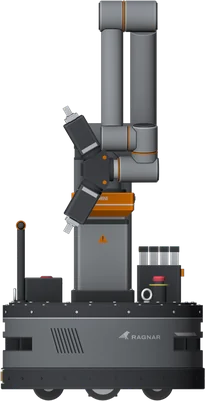
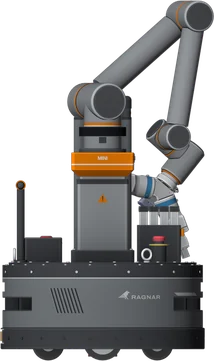
The family shares one face: R2 and Mini get the orange visor light on a ring at the arm base, all three lights follow the pointer, Mini shown reaching into its drive tray, preview image updated

diff --git a/index.html b/index.html
@@ -28,7 +28,7 @@
 <link rel="preload" href="assets/fonts/archivo_wide.woff2" as="font" type="font/woff2" crossorigin>
 <link rel="preload" href="assets/fonts/geist.woff2" as="font" type="font/woff2" crossorigin>
 <link rel="preload" href="assets/img/r1_loop_poster.webp" as="image" type="image/webp" fetchpriority="high">
-<link rel="stylesheet" href="assets/styles.css?v=r10">
+<link rel="stylesheet" href="assets/styles.css?v=r11">
 <script src="assets/site.js?v=r7" defer></script>
 </head>
 <body>
@@ -142,17 +142,17 @@
       </div>
       <div class="c14 fam">
 <div class="fam-fig">
-<svg class="dwg fam-back" viewBox="0 -2250 5664 2330" aria-hidden="true"><path d="M0 0H5664"/><path d="M400 0V-2133.6"/><path d="M348 0H400"/><path d="M374 -152.4H400"/><path d="M348 -304.8H400"/><text class="rl" x="330" y="-304.8">1</text><path d="M374 -457.2H400"/><path d="M348 -609.6H400"/><text class="rl" x="330" y="-609.6">2</text><path d="M374 -762H400"/><path d="M348 -914.4H400"/><text class="rl" x="330" y="-914.4">3</text><path d="M374 -1066.8H400"/><path d="M348 -1219.2H400"/><text class="rl" x="330" y="-1219.2">4</text><path d="M374 -1371.6H400"/><path d="M348 -1524H400"/><text class="rl" x="330" y="-1524">5</text><path d="M374 -1676.4H400"/><path d="M348 -1828.8H400"/><text class="rl" x="330" y="-1828.8">6</text><path d="M374 -1981.2H400"/><path d="M348 -2133.6H400"/><text class="rl" x="330" y="-2133.6">7 ft</text><path class="person" d="M782.0 -1753.0C799.3 -1753.0 821.0 -1755.2 834.0 -1738.0C847.0 -1720.8 857.0 -1676.3 860.0 -1650.0C863.0 -1623.7 856.7 -1600.8 852.0 -1580.0C847.3 -1559.2 835.0 -1542.0 832.0 -1525.0C829.0 -1508.0 822.3 -1489.2 834.0 -1478.0C845.7 -1466.8 876.5 -1464.3 902.0 -1458.0C927.5 -1451.7 967.7 -1450.5 987.0 -1440.0C1006.3 -1429.5 1010.8 -1426.7 1018.0 -1395.0C1025.2 -1363.3 1027.3 -1300.8 1030.0 -1250.0C1032.7 -1199.2 1034.2 -1148.3 1034.0 -1090.0C1033.8 -1031.7 1029.3 -950.0 1029.0 -900.0C1028.7 -850.0 1033.8 -821.3 1032.0 -790.0C1030.2 -758.7 1025.7 -726.3 1018.0 -712.0C1010.3 -697.7 993.7 -696.0 986.0 -704.0C978.3 -712.0 975.3 -727.3 972.0 -760.0C968.7 -792.7 968.3 -845.0 966.0 -900.0C963.7 -955.0 960.7 -1031.7 958.0 -1090.0C955.3 -1148.3 952.0 -1213.0 950.0 -1250.0C948.0 -1287.0 947.3 -1315.3 946.0 -1312.0C944.7 -1308.7 945.0 -1267.8 942.0 -1230.0C939.0 -1192.2 927.0 -1130.0 928.0 -1085.0C929.0 -1040.0 942.7 -990.8 948.0 -960.0C953.3 -929.2 959.7 -943.3 960.0 -900.0C960.3 -856.7 957.3 -766.7 950.0 -700.0C942.7 -633.3 922.0 -561.7 916.0 -500.0C910.0 -438.3 920.3 -396.7 914.0 -330.0C907.7 -263.3 881.0 -150.0 878.0 -100.0C875.0 -50.0 893.3 -46.7 896.0 -30.0C898.7 -13.3 908.0 -5.0 894.0 0.0C880.0 5.0 825.3 15.0 812.0 0.0C798.7 -15.0 815.0 -35.0 814.0 -90.0C813.0 -145.0 807.7 -261.7 806.0 -330.0C804.3 -398.3 805.7 -428.3 804.0 -500.0C802.3 -571.7 799.7 -702.5 796.0 -760.0C792.3 -817.5 786.7 -845.0 782.0 -845.0C777.3 -845.0 771.7 -817.5 768.0 -760.0C764.3 -702.5 761.7 -571.7 760.0 -500.0C758.3 -428.3 759.7 -398.3 758.0 -330.0C756.3 -261.7 751.0 -145.0 750.0 -90.0C749.0 -35.0 765.3 -15.0 752.0 0.0C738.7 15.0 684.0 5.0 670.0 0.0C656.0 -5.0 665.3 -13.3 668.0 -30.0C670.7 -46.7 689.0 -50.0 686.0 -100.0C683.0 -150.0 656.3 -263.3 650.0 -330.0C643.7 -396.7 654.0 -438.3 648.0 -500.0C642.0 -561.7 621.3 -633.3 614.0 -700.0C606.7 -766.7 603.7 -856.7 604.0 -900.0C604.3 -943.3 610.7 -929.2 616.0 -960.0C621.3 -990.8 635.0 -1040.0 636.0 -1085.0C637.0 -1130.0 625.0 -1192.2 622.0 -1230.0C619.0 -1267.8 619.3 -1308.7 618.0 -1312.0C616.7 -1315.3 616.0 -1287.0 614.0 -1250.0C612.0 -1213.0 608.7 -1148.3 606.0 -1090.0C603.3 -1031.7 600.3 -955.0 598.0 -900.0C595.7 -845.0 595.3 -792.7 592.0 -760.0C588.7 -727.3 585.7 -712.0 578.0 -704.0C570.3 -696.0 553.7 -697.7 546.0 -712.0C538.3 -726.3 533.8 -758.7 532.0 -790.0C530.2 -821.3 535.3 -850.0 535.0 -900.0C534.7 -950.0 530.2 -1031.7 530.0 -1090.0C529.8 -1148.3 531.3 -1199.2 534.0 -1250.0C536.7 -1300.8 538.8 -1363.3 546.0 -1395.0C553.2 -1426.7 557.7 -1429.5 577.0 -1440.0C596.3 -1450.5 636.5 -1451.7 662.0 -1458.0C687.5 -1464.3 718.3 -1466.8 730.0 -1478.0C741.7 -1489.2 735.0 -1508.0 732.0 -1525.0C729.0 -1542.0 716.7 -1559.2 712.0 -1580.0C707.3 -1600.8 701.0 -1623.7 704.0 -1650.0C707.0 -1676.3 717.0 -1720.8 730.0 -1738.0C743.0 -1755.2 764.7 -1753.0 782.0 -1753.0Z"/><text class="nm" x="1944" y="40">R1</text><text class="nm" x="3882" y="40">R2</text><text class="nm" x="5196" y="40">Mini</text></svg>
+<svg class="dwg fam-back" viewBox="0 -2250 5692 2330" aria-hidden="true"><path d="M0 0H5692"/><path d="M400 0V-2133.6"/><path d="M348 0H400"/><path d="M374 -152.4H400"/><path d="M348 -304.8H400"/><text class="rl" x="330" y="-304.8">1</text><path d="M374 -457.2H400"/><path d="M348 -609.6H400"/><text class="rl" x="330" y="-609.6">2</text><path d="M374 -762H400"/><path d="M348 -914.4H400"/><text class="rl" x="330" y="-914.4">3</text><path d="M374 -1066.8H400"/><path d="M348 -1219.2H400"/><text class="rl" x="330" y="-1219.2">4</text><path d="M374 -1371.6H400"/><path d="M348 -1524H400"/><text class="rl" x="330" y="-1524">5</text><path d="M374 -1676.4H400"/><path d="M348 -1828.8H400"/><text class="rl" x="330" y="-1828.8">6</text><path d="M374 -1981.2H400"/><path d="M348 -2133.6H400"/><text class="rl" x="330" y="-2133.6">7 ft</text><path class="person" d="M782.0 -1753.0C799.3 -1753.0 821.0 -1755.2 834.0 -1738.0C847.0 -1720.8 857.0 -1676.3 860.0 -1650.0C863.0 -1623.7 856.7 -1600.8 852.0 -1580.0C847.3 -1559.2 835.0 -1542.0 832.0 -1525.0C829.0 -1508.0 822.3 -1489.2 834.0 -1478.0C845.7 -1466.8 876.5 -1464.3 902.0 -1458.0C927.5 -1451.7 967.7 -1450.5 987.0 -1440.0C1006.3 -1429.5 1010.8 -1426.7 1018.0 -1395.0C1025.2 -1363.3 1027.3 -1300.8 1030.0 -1250.0C1032.7 -1199.2 1034.2 -1148.3 1034.0 -1090.0C1033.8 -1031.7 1029.3 -950.0 1029.0 -900.0C1028.7 -850.0 1033.8 -821.3 1032.0 -790.0C1030.2 -758.7 1025.7 -726.3 1018.0 -712.0C1010.3 -697.7 993.7 -696.0 986.0 -704.0C978.3 -712.0 975.3 -727.3 972.0 -760.0C968.7 -792.7 968.3 -845.0 966.0 -900.0C963.7 -955.0 960.7 -1031.7 958.0 -1090.0C955.3 -1148.3 952.0 -1213.0 950.0 -1250.0C948.0 -1287.0 947.3 -1315.3 946.0 -1312.0C944.7 -1308.7 945.0 -1267.8 942.0 -1230.0C939.0 -1192.2 927.0 -1130.0 928.0 -1085.0C929.0 -1040.0 942.7 -990.8 948.0 -960.0C953.3 -929.2 959.7 -943.3 960.0 -900.0C960.3 -856.7 957.3 -766.7 950.0 -700.0C942.7 -633.3 922.0 -561.7 916.0 -500.0C910.0 -438.3 920.3 -396.7 914.0 -330.0C907.7 -263.3 881.0 -150.0 878.0 -100.0C875.0 -50.0 893.3 -46.7 896.0 -30.0C898.7 -13.3 908.0 -5.0 894.0 0.0C880.0 5.0 825.3 15.0 812.0 0.0C798.7 -15.0 815.0 -35.0 814.0 -90.0C813.0 -145.0 807.7 -261.7 806.0 -330.0C804.3 -398.3 805.7 -428.3 804.0 -500.0C802.3 -571.7 799.7 -702.5 796.0 -760.0C792.3 -817.5 786.7 -845.0 782.0 -845.0C777.3 -845.0 771.7 -817.5 768.0 -760.0C764.3 -702.5 761.7 -571.7 760.0 -500.0C758.3 -428.3 759.7 -398.3 758.0 -330.0C756.3 -261.7 751.0 -145.0 750.0 -90.0C749.0 -35.0 765.3 -15.0 752.0 0.0C738.7 15.0 684.0 5.0 670.0 0.0C656.0 -5.0 665.3 -13.3 668.0 -30.0C670.7 -46.7 689.0 -50.0 686.0 -100.0C683.0 -150.0 656.3 -263.3 650.0 -330.0C643.7 -396.7 654.0 -438.3 648.0 -500.0C642.0 -561.7 621.3 -633.3 614.0 -700.0C606.7 -766.7 603.7 -856.7 604.0 -900.0C604.3 -943.3 610.7 -929.2 616.0 -960.0C621.3 -990.8 635.0 -1040.0 636.0 -1085.0C637.0 -1130.0 625.0 -1192.2 622.0 -1230.0C619.0 -1267.8 619.3 -1308.7 618.0 -1312.0C616.7 -1315.3 616.0 -1287.0 614.0 -1250.0C612.0 -1213.0 608.7 -1148.3 606.0 -1090.0C603.3 -1031.7 600.3 -955.0 598.0 -900.0C595.7 -845.0 595.3 -792.7 592.0 -760.0C588.7 -727.3 585.7 -712.0 578.0 -704.0C570.3 -696.0 553.7 -697.7 546.0 -712.0C538.3 -726.3 533.8 -758.7 532.0 -790.0C530.2 -821.3 535.3 -850.0 535.0 -900.0C534.7 -950.0 530.2 -1031.7 530.0 -1090.0C529.8 -1148.3 531.3 -1199.2 534.0 -1250.0C536.7 -1300.8 538.8 -1363.3 546.0 -1395.0C553.2 -1426.7 557.7 -1429.5 577.0 -1440.0C596.3 -1450.5 636.5 -1451.7 662.0 -1458.0C687.5 -1464.3 718.3 -1466.8 730.0 -1478.0C741.7 -1489.2 735.0 -1508.0 732.0 -1525.0C729.0 -1542.0 716.7 -1559.2 712.0 -1580.0C707.3 -1600.8 701.0 -1623.7 704.0 -1650.0C707.0 -1676.3 717.0 -1720.8 730.0 -1738.0C743.0 -1755.2 764.7 -1753.0 782.0 -1753.0Z"/><text class="nm" x="1944" y="40">R1</text><text class="nm" x="3882" y="40">R2</text><text class="nm" x="5210" y="40">Mini</text></svg>
 <img class="fam-bot fam-r1" src="assets/img/r1_side_1x.webp" srcset="assets/img/r1_side_1x.webp 493w, assets/img/r1_side_2x.webp 986w" sizes="(min-width: 900px) calc(min(1440px, 100vw - 48px) * 0.3), calc((100vw - 40px) * 0.3)" width="986" height="1249" alt="R1, the interior finishing robot, holding its paint roller beside its mast" loading="lazy" decoding="async">
 <img class="fam-bot fam-r2" src="assets/img/r2_side_1x.webp" srcset="assets/img/r2_side_1x.webp 368w, assets/img/r2_side_2x.webp 735w" sizes="(min-width: 900px) calc(min(1440px, 100vw - 48px) * 0.2), calc((100vw - 40px) * 0.2)" width="735" height="931" alt="R2, the machine tending robot, with its arm on a lift column and part cassettes on its deck" loading="lazy" decoding="async">
-<img class="fam-bot fam-mini" src="assets/img/mini_side_1x.webp" srcset="assets/img/mini_side_1x.webp 205w, assets/img/mini_side_2x.webp 410w" sizes="(min-width: 900px) calc(min(1440px, 100vw - 48px) * 0.1), calc((100vw - 40px) * 0.1)" width="410" height="802" alt="Mini, the round data center robot, with its arm folded above a short lift" loading="lazy" decoding="async">
-<svg class="dwg fam-front" viewBox="0 -2250 5664 2330" aria-hidden="true"><rect class="eye" x="2360.7" y="-1961.5" width="37.5" height="23" data-cx="2379.4" data-cy="-1950" data-hx="2330.4" data-range="98"/></svg>
+<img class="fam-bot fam-mini" src="assets/img/mini_side_1x.webp" srcset="assets/img/mini_side_1x.webp 214w, assets/img/mini_side_2x.webp 428w" sizes="(min-width: 900px) calc(min(1440px, 100vw - 48px) * 0.1), calc((100vw - 40px) * 0.1)" width="428" height="722" alt="Mini, the round data center robot, reaching into the drive tray on its deck" loading="lazy" decoding="async">
+<svg class="dwg fam-front" viewBox="0 -2250 5692 2330" aria-hidden="true"><rect class="eye" x="2360.7" y="-1961.5" width="37.5" height="23" data-cx="2379.4" data-cy="-1950" data-hx="2330.4" data-range="98"/><rect class="eye" x="3863.1" y="-1207.5" width="37.5" height="23" data-cx="3881.8" data-cy="-1196" data-hx="3826" data-range="111.7"/><rect class="eye" x="5212.6" y="-743.5" width="37.5" height="23" data-cx="5231.3" data-cy="-732" data-hx="5195.4" data-range="71.8"/></svg>
 </div>
 <div class="fam-labels">
 <div class="fam-0" aria-hidden="true"></div>
 <div class="fam-l"><h3>R1</h3><p>Paints, sands, drills and tapes walls and ceilings.</p><p class="fam-k">78.5 in tall, 41 in long</p><p class="fam-s">In development</p></div>
 <div class="fam-l"><h3>R2</h3><p>Loads CNC machines, swaps print plates and moves parts between stations.</p><p class="fam-k">58.5 in tall, 38 in long</p><p class="fam-s">In design</p></div>
-<div class="fam-l"><h3>Mini</h3><p>Swaps drives and checks racks, and is small enough for tight aisles.</p><p class="fam-k">50 in tall, 26 in round</p><p class="fam-s">In design</p></div>
+<div class="fam-l"><h3>Mini</h3><p>Swaps drives and checks racks, and is small enough for tight aisles.</p><p class="fam-k">45 in tall, 26 in round</p><p class="fam-s">In design</p></div>
 </div>
       </div>
     </div>

diff --git a/assets/styles.css b/assets/styles.css
@@ -312,11 +312,11 @@ section{border-bottom:1px solid var(--rule)}
 .fam-fig.in .fam-mini{transition-delay:.32s}
 .fam-fig.in .eye{animation:power .8s linear 1.6s both}
 @keyframes power{0%{opacity:0}18%{opacity:0}20%{opacity:1}34%{opacity:1}36%{opacity:.2}50%{opacity:.2}52%{opacity:1}100%{opacity:1}}
-.fam-r1{left:24.6%;top:10.9%;width:27.9%}
-.fam-r2{left:58.8%;top:32.7%;width:20.8%}
-.fam-mini{left:85.9%;top:41.5%;width:11.6%}
-.fam-fig{aspect-ratio:5664 / 2330}
-@media (min-width:700px){.fam-labels{grid-template-columns:1394fr 1938fr 1536fr 796fr}}
+.fam-r1{left:24.5%;top:10.9%;width:27.7%}
+.fam-r2{left:58.5%;top:32.7%;width:20.7%}
+.fam-mini{left:85.5%;top:47.1%;width:12%}
+.fam-fig{aspect-ratio:5692 / 2330}
+@media (min-width:700px){.fam-labels{grid-template-columns:1394fr 1938fr 1536fr 824fr}}
 /* end family */
 
 /* home: task form */

diff --git a/404.html b/404.html
@@ -25,7 +25,7 @@
 <meta http-equiv="Content-Security-Policy" content="default-src 'self'; img-src 'self'; style-src 'self'; font-src 'self'; script-src 'self'; object-src 'none'; base-uri 'self'; form-action 'none'">
 <link rel="preload" href="/assets/fonts/archivo_wide.woff2" as="font" type="font/woff2" crossorigin>
 <link rel="preload" href="/assets/fonts/geist.woff2" as="font" type="font/woff2" crossorigin>
-<link rel="stylesheet" href="/assets/styles.css?v=r10">
+<link rel="stylesheet" href="/assets/styles.css?v=r11">
 <script src="/assets/site.js?v=r7" defer></script>
 </head>
 <body>

diff --git a/thanks.html b/thanks.html
@@ -25,7 +25,7 @@
 <meta http-equiv="Content-Security-Policy" content="default-src 'self'; img-src 'self'; style-src 'self'; font-src 'self'; script-src 'self'; object-src 'none'; base-uri 'self'; form-action 'none'">
 <link rel="preload" href="/assets/fonts/archivo_wide.woff2" as="font" type="font/woff2" crossorigin>
 <link rel="preload" href="/assets/fonts/geist.woff2" as="font" type="font/woff2" crossorigin>
-<link rel="stylesheet" href="/assets/styles.css?v=r10">
+<link rel="stylesheet" href="/assets/styles.css?v=r11">
 <script src="/assets/site.js?v=r7" defer></script>
 </head>
 <body>

diff --git a/company.html b/company.html
@@ -27,7 +27,7 @@
 <meta http-equiv="Content-Security-Policy" content="default-src 'self'; img-src 'self'; style-src 'self'; font-src 'self'; script-src 'self'; object-src 'none'; base-uri 'self'; form-action 'none'">
 <link rel="preload" href="assets/fonts/archivo_wide.woff2" as="font" type="font/woff2" crossorigin>
 <link rel="preload" href="assets/fonts/geist.woff2" as="font" type="font/woff2" crossorigin>
-<link rel="stylesheet" href="assets/styles.css?v=r10">
+<link rel="stylesheet" href="assets/styles.css?v=r11">
 <script src="assets/site.js?v=r7" defer></script>
 </head>
 <body>

diff --git a/privacy.html b/privacy.html
@@ -26,7 +26,7 @@
 <meta http-equiv="Content-Security-Policy" content="default-src 'self'; img-src 'self'; style-src 'self'; font-src 'self'; script-src 'self'; object-src 'none'; base-uri 'self'; form-action 'none'">
 <link rel="preload" href="assets/fonts/archivo_wide.woff2" as="font" type="font/woff2" crossorigin>
 <link rel="preload" href="assets/fonts/geist.woff2" as="font" type="font/woff2" crossorigin>
-<link rel="stylesheet" href="assets/styles.css?v=r10">
+<link rel="stylesheet" href="assets/styles.css?v=r11">
 <script src="assets/site.js?v=r7" defer></script>
 </head>
 <body>

diff --git a/r1.html b/r1.html
@@ -26,7 +26,7 @@
 <meta http-equiv="Content-Security-Policy" content="default-src 'self'; img-src 'self'; style-src 'self'; font-src 'self'; script-src 'self'; object-src 'none'; base-uri 'self'; form-action 'none'">
 <link rel="preload" href="assets/fonts/archivo_wide.woff2" as="font" type="font/woff2" crossorigin>
 <link rel="preload" href="assets/fonts/geist.woff2" as="font" type="font/woff2" crossorigin>
-<link rel="stylesheet" href="assets/styles.css?v=r10">
+<link rel="stylesheet" href="assets/styles.css?v=r11">
 <script src="assets/site.js?v=r7" defer></script>
 </head>
 <body>

diff --git a/terms.html b/terms.html
@@ -26,7 +26,7 @@
 <meta http-equiv="Content-Security-Policy" content="default-src 'self'; img-src 'self'; style-src 'self'; font-src 'self'; script-src 'self'; object-src 'none'; base-uri 'self'; form-action 'none'">
 <link rel="preload" href="assets/fonts/archivo_wide.woff2" as="font" type="font/woff2" crossorigin>
 <link rel="preload" href="assets/fonts/geist.woff2" as="font" type="font/woff2" crossorigin>
-<link rel="stylesheet" href="assets/styles.css?v=r10">
+<link rel="stylesheet" href="assets/styles.css?v=r11">
 <script src="assets/site.js?v=r7" defer></script>
 </head>
 <body>
